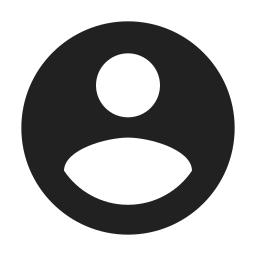
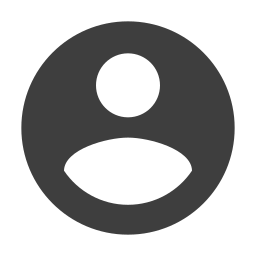
Update User Profile Photo containers
* Add "Photo" suffix instead of "Image".
 * Rename all related variables in queries and buttons.
 * Remove Photo's opacity from XAML code.
 * Make the Photo itself dark grey.
 * Modify Browse File dialogs.

diff --git a/FitnessApp/UserMainWindowPages/SettingsPage.xaml b/FitnessApp/UserMainWindowPages/SettingsPage.xaml
@@ -41,17 +41,16 @@
                                     <Ellipse.Fill>
                                         <ImageBrush x:Name="UserProfilePhoto"
                                                     ImageSource="../Images/AccountCircleDefaultIcon.png"
-                                                    Stretch="UniformToFill"
-                                                    Opacity="0.75"/>
+                                                    Stretch="UniformToFill"/>
                                     </Ellipse.Fill>
                                 </Ellipse>
-                                
-                                <Button x:Name="UpdateImageButton"
+
+                                <Button x:Name="UpdateUserProfilePhotoButton"
                                         Width="120" 
                                         Height="120" 
                                         Opacity="0"
                                         Style="{StaticResource MaterialDesignFloatingActionButton}"
-                                        Click="UpdateImageButton_Click">
+                                        Click="UpdateUserProfilePhotoButton_Click">
                                 </Button>
 
                             </Grid>

diff --git a/FitnessApp/SignUpPages/SetupProfilePage.xaml b/FitnessApp/SignUpPages/SetupProfilePage.xaml
@@ -29,18 +29,17 @@
                 <Ellipse.Fill>
                     <ImageBrush x:Name="UserProfilePhoto"
                                 ImageSource="../Images/AccountCircleDefaultIcon.png"
-                                Stretch="UniformToFill"
-                                Opacity="0.75"/>
+                                Stretch="UniformToFill"/>
                 </Ellipse.Fill>
                 
             </Ellipse>
             
-            <Button x:Name="ChooseImageButton"
+            <Button x:Name="ChooseUserProfilePhotoButton"
                     Width="120" 
                     Height="120" 
                     Opacity="0"
                     Style="{StaticResource MaterialDesignFloatingActionButton}"
-                    Click="ChooseImageButton_Click">
+                    Click="ChooseUserProfilePhotoButton_Click">
             </Button>
 
         </Grid> 

diff --git a/FitnessApp/UserMainWindow.xaml b/FitnessApp/UserMainWindow.xaml
@@ -61,11 +61,10 @@
                                 <Ellipse.Fill>
                                     <ImageBrush x:Name="UserProfilePhoto"
                                                 ImageSource="./Images/AccountCircleDefaultIcon.png"
-                                                Stretch="UniformToFill"
-                                                Opacity="0.75"/>
+                                                Stretch="UniformToFill"/>
                                 </Ellipse.Fill>
                             </Ellipse>
-                            <Button x:Name="UserProfileButton"
+                            <Button x:Name="UserProfilePhotoButton"
                                     Width="80"
                                     Height="80"
                                     Opacity="0"

diff --git a/FitnessApp/SignUpPages/SetupProfilePage.xaml.cs b/FitnessApp/SignUpPages/SetupProfilePage.xaml.cs
@@ -44,7 +44,7 @@ namespace FitnessApp.SignUpPages
             else
             {
                 // Signing up
-                SQLqueriesObject.SignUp(ref img,
+                SQLqueriesObject.SignUp(ref profilePhotoByteArray,
                                         SignUpFirstPage.SignUpFirstPageObject.FirstNameTextBox.Text,
                                         SignUpFirstPage.SignUpFirstPageObject.LastNameTextBox.Text,
                                         SignUpFirstPage.SignUpFirstPageObject.UserNameTextBox.Text,
@@ -64,23 +64,24 @@ namespace FitnessApp.SignUpPages
             }
         }
 
-        public byte[] img = null;
-        private void ChooseImageButton_Click(object sender, RoutedEventArgs e)
+        public byte[] profilePhotoByteArray = null;
+        private void ChooseUserProfilePhotoButton_Click(object sender, RoutedEventArgs e)
         {
-            OpenFileDialog BrowseImageDialogBox = new OpenFileDialog();
-            BrowseImageDialogBox.Title = "Select a picture";
-            BrowseImageDialogBox.Filter = "All supported graphics|*.jpg;*.jpeg;*.png|" +
-              "JPEG (*.jpg;*.jpeg)|*.jpg;*.jpeg|" +
-              "Portable Network Graphic (*.png)|*.png";
-            if (BrowseImageDialogBox.ShowDialog() == true)
+            OpenFileDialog browsePhotoDialog = new OpenFileDialog();
+            browsePhotoDialog.Title  = "Select your Profile Photo";
+            browsePhotoDialog.Filter = "All formats|*.jpg;*.jpeg;*.png|" +
+                                       "JPEG (*.jpg;*.jpeg)|*.jpg;*.jpeg|" +
+                                       "PNG (*.png)|*.png";
+
+            if (browsePhotoDialog.ShowDialog() == true)
             {
-                UserProfilePhoto.ImageSource = new BitmapImage(new Uri(BrowseImageDialogBox.FileName));
+                UserProfilePhoto.ImageSource = new BitmapImage(new Uri(browsePhotoDialog.FileName));
                 UserProfilePhoto.Opacity = 1.0;
 
                 // Convert the image to byte[]
-                FileStream fs = new FileStream(BrowseImageDialogBox.FileName, FileMode.Open, FileAccess.Read);
+                FileStream fs = new FileStream(browsePhotoDialog.FileName, FileMode.Open, FileAccess.Read);
                 BinaryReader br = new BinaryReader(fs);
-                img = br.ReadBytes((int)fs.Length);
+                profilePhotoByteArray = br.ReadBytes((int)fs.Length);
             }
         }
 

diff --git a/FitnessApp/SQLdatabase/SQLqueries.cs b/FitnessApp/SQLdatabase/SQLqueries.cs
@@ -172,10 +172,10 @@ namespace FitnessApp.SQLdatabase
         }
 
         // Sign up function
-        public void SignUp(ref byte[] image,    string firstName,   string lastName,
-                           string username,     string email,       string password,
-                           string gender,       string birthDate,   double weight,         double height,
-                           double targetWeight, double kilosToLose, double workoutPerWeek, double workoutPerHours)
+        public void SignUp(ref byte[] profilePhoto, string firstName,   string lastName,
+                           string username,         string email,       string password,
+                           string gender,           string birthDate,   double weight,         double height,
+                           double targetWeight,     double kilosToLose, double workoutPerWeek, double workoutPerHours)
         {
             // Password Encryption
             string encryptedPassword = PasswordEncryption(password);
@@ -183,7 +183,7 @@ namespace FitnessApp.SQLdatabase
             // Create Query amd Command
             string query1 = "INSERT INTO [User] (Image, FirstName, LastName, Username, BirthDate, Gender, "+
                             "TargetWeight, Height, KilosToLosePerWeek, WorkoutsDaysPerWeek, WorkoutsHoursPerDay)" +
-                            "VALUES('" + image + "','" + firstName + "','" + lastName + "', '" + username + "','" + birthDate + "','" + gender + "','" + 
+                            "VALUES('" + profilePhoto + "','" + firstName + "','" + lastName + "', '" + username + "','" + birthDate + "','" + gender + "','" + 
                             targetWeight + "','" + height + "','" + kilosToLose + "','" + workoutPerWeek + "', '" + workoutPerHours + "') ;";
             SqlCommand cmd1 = new SqlCommand(query1, Connection);
 

diff --git a/FitnessApp/UserMainWindowPages/SettingsPage.xaml.cs b/FitnessApp/UserMainWindowPages/SettingsPage.xaml.cs
@@ -67,18 +67,19 @@ namespace FitnessApp.UserMainWindowPages
         }
 
 
-        private void UpdateImageButton_Click(object sender, System.Windows.RoutedEventArgs e)
+        private void UpdateUserProfilePhotoButton_Click(object sender, System.Windows.RoutedEventArgs e)
         {
-            OpenFileDialog BrowseImageDialogBox = new OpenFileDialog();
-            BrowseImageDialogBox.Title = "Select a new profile photo";
-            BrowseImageDialogBox.Filter = "All supported graphics|*.jpg;*.jpeg;*.png|" +
-              "JPEG (*.jpg;*.jpeg)|*.jpg;*.jpeg|" +
-              "Portable Network Graphic (*.png)|*.png";
-            if (BrowseImageDialogBox.ShowDialog() == true)
+            OpenFileDialog browsePhotoDialog = new OpenFileDialog();
+            browsePhotoDialog.Title  = "Select your New Profile Photo";
+            browsePhotoDialog.Filter = "All formats|*.jpg;*.jpeg;*.png|" +
+                                       "JPEG (*.jpg;*.jpeg)|*.jpg;*.jpeg|" +
+                                       "PNG (*.png)|*.png";
+
+            if (browsePhotoDialog.ShowDialog() == true)
             {
-                UserProfilePhoto.ImageSource = new BitmapImage(new Uri(BrowseImageDialogBox.FileName));
-                // Convert Selected Photo to byte array here.
+                UserProfilePhoto.ImageSource = new BitmapImage(new Uri(browsePhotoDialog.FileName));
             }
+
         }
         
         private void TextBoxesNumbersOnly_PreviewTextInput(object sender, System.Windows.Input.TextCompositionEventArgs e)
